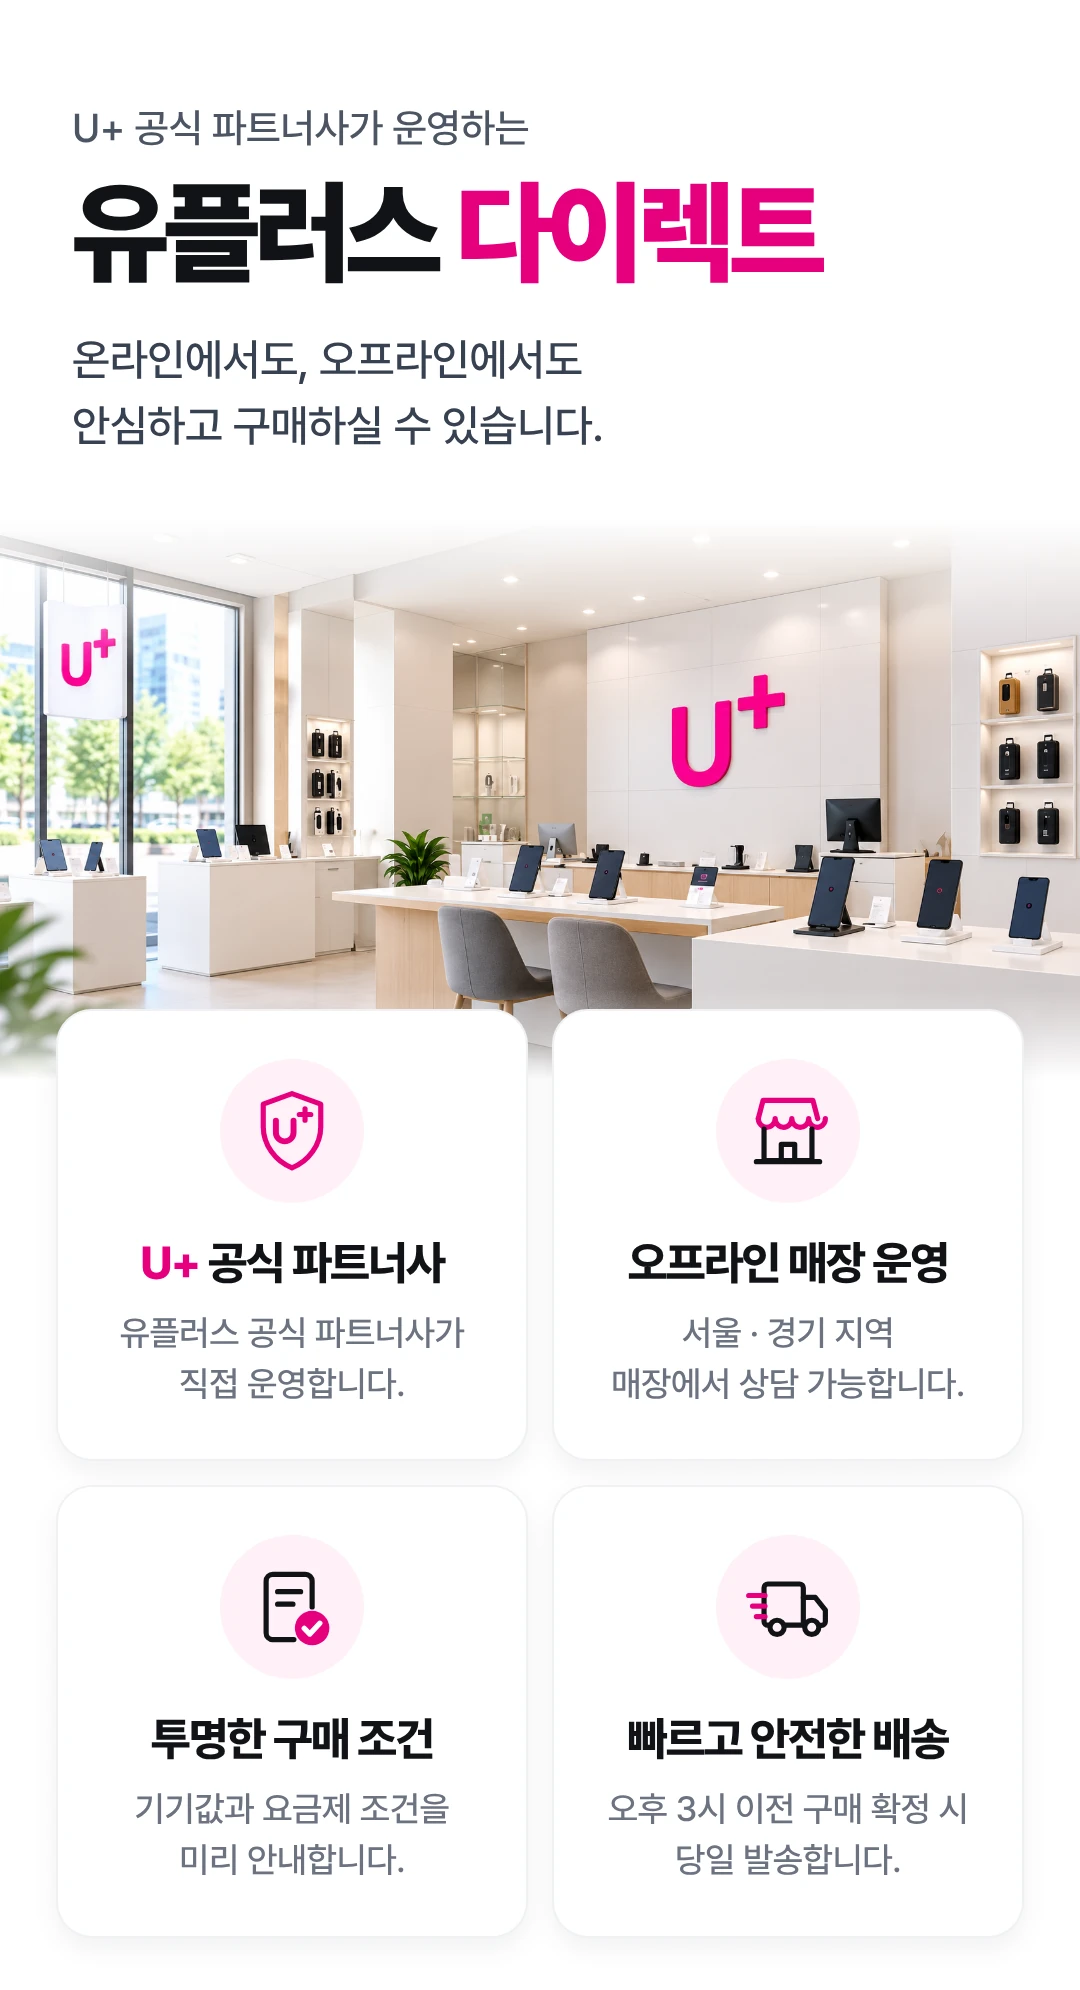
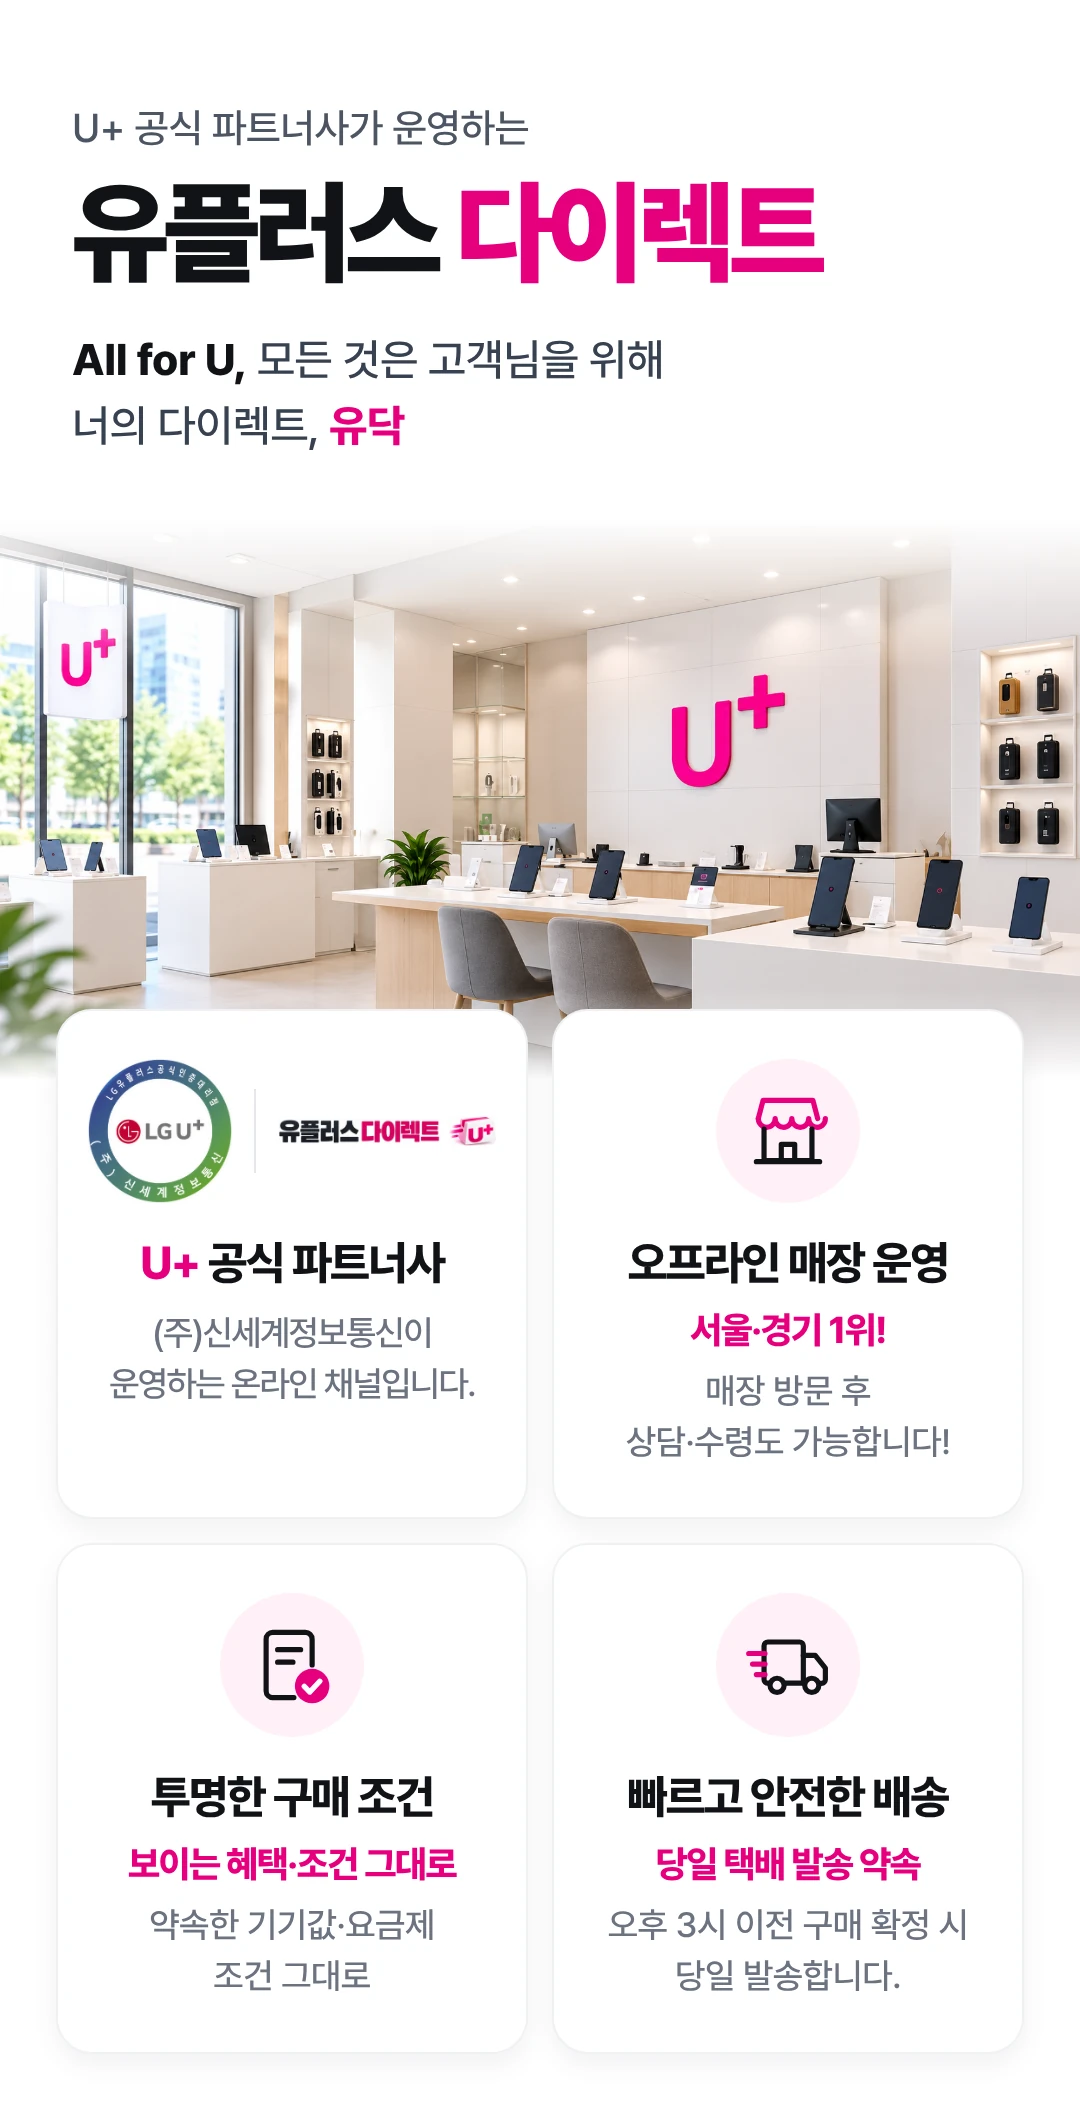
/shop 휴대폰 상세 공통 그림 2차 (사장님 수정 문구)
- 맨 위: All for U, 모든 것은 고객님을 위해 / 너의 다이렉트, 유닥
- U+ 공식 파트너사: LG유플러스 공식인증대리점 인증마크 + 유플러스 다이렉트 로고 · (주)신세계정보통신이 운영하는 온라인 채널입니다.
- 오프라인 매장 운영: 서울·경기 1위! / 매장 방문 후 상담·수령도 가능합니다!
- 투명한 구매 조건: 보이는 혜택·조건 그대로 / 약속한 기기값·요금제 조건 그대로
- 빠르고 안전한 배송: 당일 택배 발송 약속 / 오후 3시 이전 구매 확정 시 당일 발송합니다.
- 구매부터 개통까지: 작은 글씨 빼고 아래에 '상담 신청은 구매 확정이나 결제가 아닙니다. 언제든 편하게 문의해 주세요.'
- 이런 점은 걱정하지 않으셔도 됩니다 → 약속드립니다! (제휴카드·부가서비스 의무가입 X · 상담 내용과 동일 조건 약속! · 원하시는 경우 직영 매장에 방문 수령·개통 가능!)

Claude-Session: https://claude.ai/code/session_01UduFChukoFFwk18pDm4WUv

diff --git a/assets/store/store.js b/assets/store/store.js
@@ -99,7 +99,7 @@ var DEFAULT = {
   priceNote:'',
   // 20261026 사장님: 모든 휴대폰 상세 '구매혜택' 칸 맨 아래 공통 그림 (유플러스 다이렉트 소개 · 구매부터 개통까지 · 걱정 없는 점 · 포장)
   // 관리자 상세에서 이 그림을 누르면 바꿀 수 있음 · 끝의 #가로x세로 = 그림 크기 (탭을 눌러 내려갈 때 자리를 미리 잡아 화면이 밀리지 않게)
-  dtc:{ben:['detail/common-01.webp#1080x1990','detail/common-02.webp#1080x1370','detail/common-03.webp#1080x1115','detail/common-04.webp#1080x549','detail/common-05.webp#1080x766']},
+  dtc:{ben:['detail/common-01.webp#1080x2106','detail/common-02.webp#1080x1504','detail/common-03.webp#1080x1027','detail/common-04.webp#1080x553','detail/common-05.webp#1080x762']},   // 20261026 2차 (사장님 수정 문구 · 인증마크+로고)
   stores:[
     {nm:'건대입구역점',addr:'서울시 광진구 능동로 95'},{nm:'군자역점',addr:'서울시 광진구 천호대로 573'},{nm:'신군자점',addr:'서울시 광진구 천호대로 548'},
     {nm:'신자양점',addr:'서울시 광진구 자양번영로 42'},{nm:'성수역점',addr:'서울시 성동구 아차산로 96'},{nm:'용답로데오점',addr:'서울시 성동구 용답동 58-1'},

diff --git a/apple.html b/apple.html
@@ -34,7 +34,7 @@ window.STORE_CFG = {mode:'edit'};
   function boot(){
     document.getElementById('login').remove();
     // /shop 화면(shop.js)을 먼저 → 스토어 엔진 → 관리자 기능 → 가격표 순서로
-    var seq=(window.STORE_VIEW_STORE?[]:['/assets/shop/shop.js?v=20261026g']).concat(['/assets/store/store.js?v=20261026j','/assets/store/store-admin.js?v=20261026g','/assets/store/store-price.js?v=20261026b']);
+    var seq=(window.STORE_VIEW_STORE?[]:['/assets/shop/shop.js?v=20261026g']).concat(['/assets/store/store.js?v=20261026k','/assets/store/store-admin.js?v=20261026g','/assets/store/store-price.js?v=20261026b']);
     (function next(i){ if(i>=seq.length) return; var s=document.createElement('script'); s.src=seq[i]; s.onload=function(){ next(i+1); }; document.body.appendChild(s); })(0);
   }
   function sha(s){ return crypto.subtle.digest('SHA-256', new TextEncoder().encode(s)).then(function(b){ return Array.prototype.map.call(new Uint8Array(b),function(x){return ('0'+x.toString(16)).slice(-2)}).join(''); }); }

diff --git a/galaxy_z8.html b/galaxy_z8.html
@@ -132,7 +132,7 @@ window.STORE_CFG = {mode:'view'};
   <p>워치 · 태블릿 · U+ tv 프리도 함께 구매할 수 있어요. 5분 상담, 서울·경기 매장 방문 수령 가능.</p>
   <p><a href="/about">왜 유플러스 다이렉트인가요?</a></p>
 </div>
-<script src="/assets/store/store.js?v=20261026j"></script>
+<script src="/assets/store/store.js?v=20261026k"></script>
 <!-- 이탈 분석(익명, 개인정보 없음) -->
 <script src="/assets/udak-funnel.js?v=20261021a" data-page="galaxy_z8" defer></script>
 </body>

diff --git a/shop.html b/shop.html
@@ -73,7 +73,7 @@ window.STORE_CFG = {mode:'view', srcTag:'/shop'};
 <body>
 <div id="storeRoot"></div>
 <script src="/assets/shop/shop.js?v=20261026g"></script>
-<script src="/assets/store/store.js?v=20261026j"></script>
+<script src="/assets/store/store.js?v=20261026k"></script>
 <!-- 이탈 분석(익명, 개인정보 없음) — page='shop' 으로 따로 기록 -->
 <script src="/assets/udak-funnel.js?v=20261026a" data-page="shop" defer></script>
 </body>
